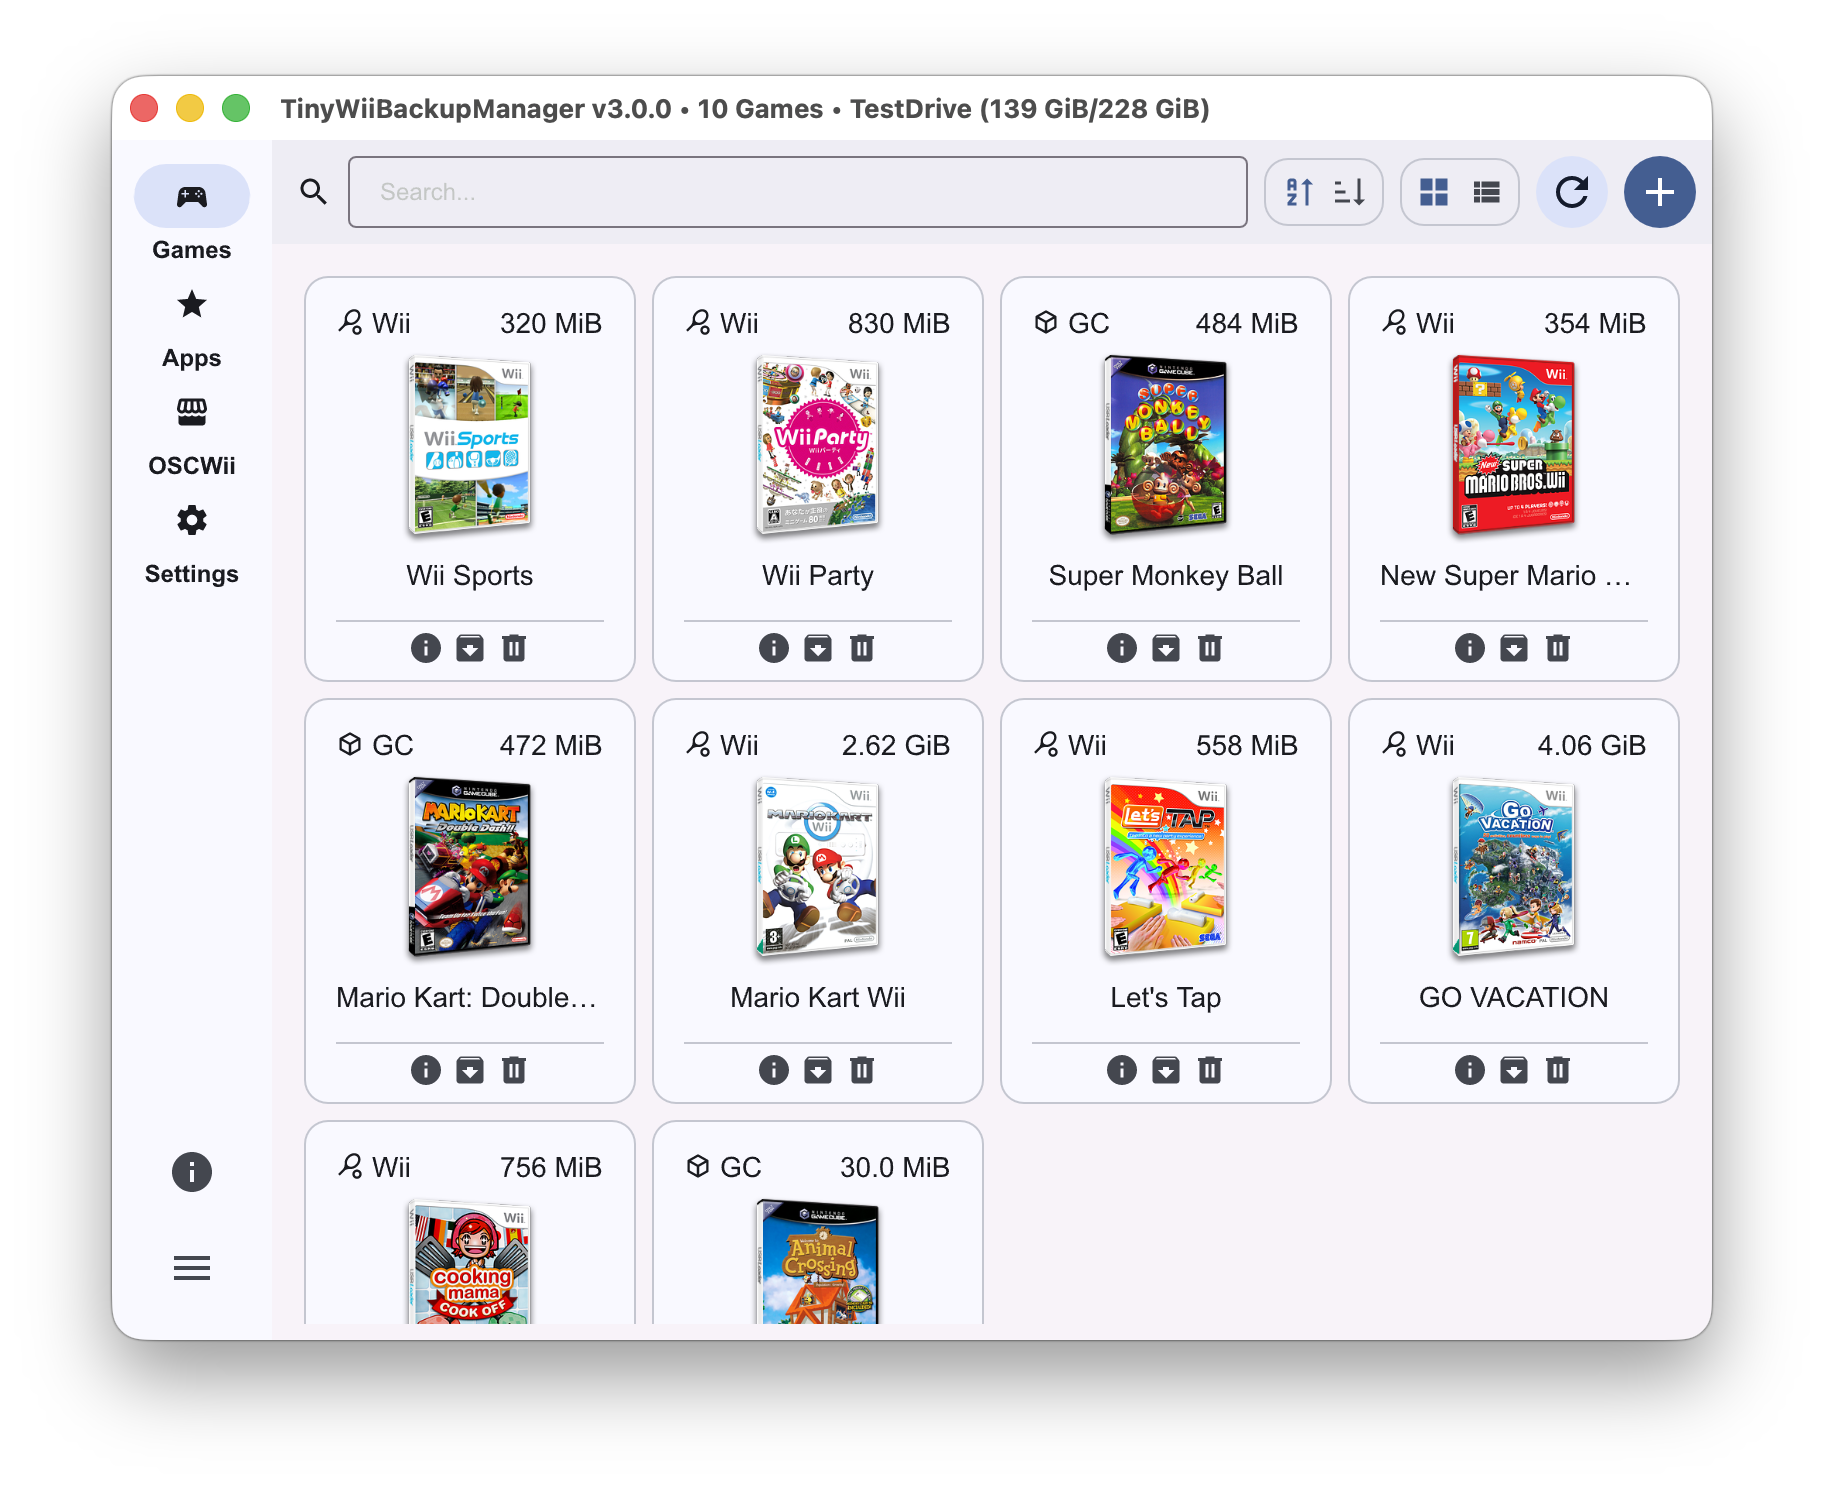
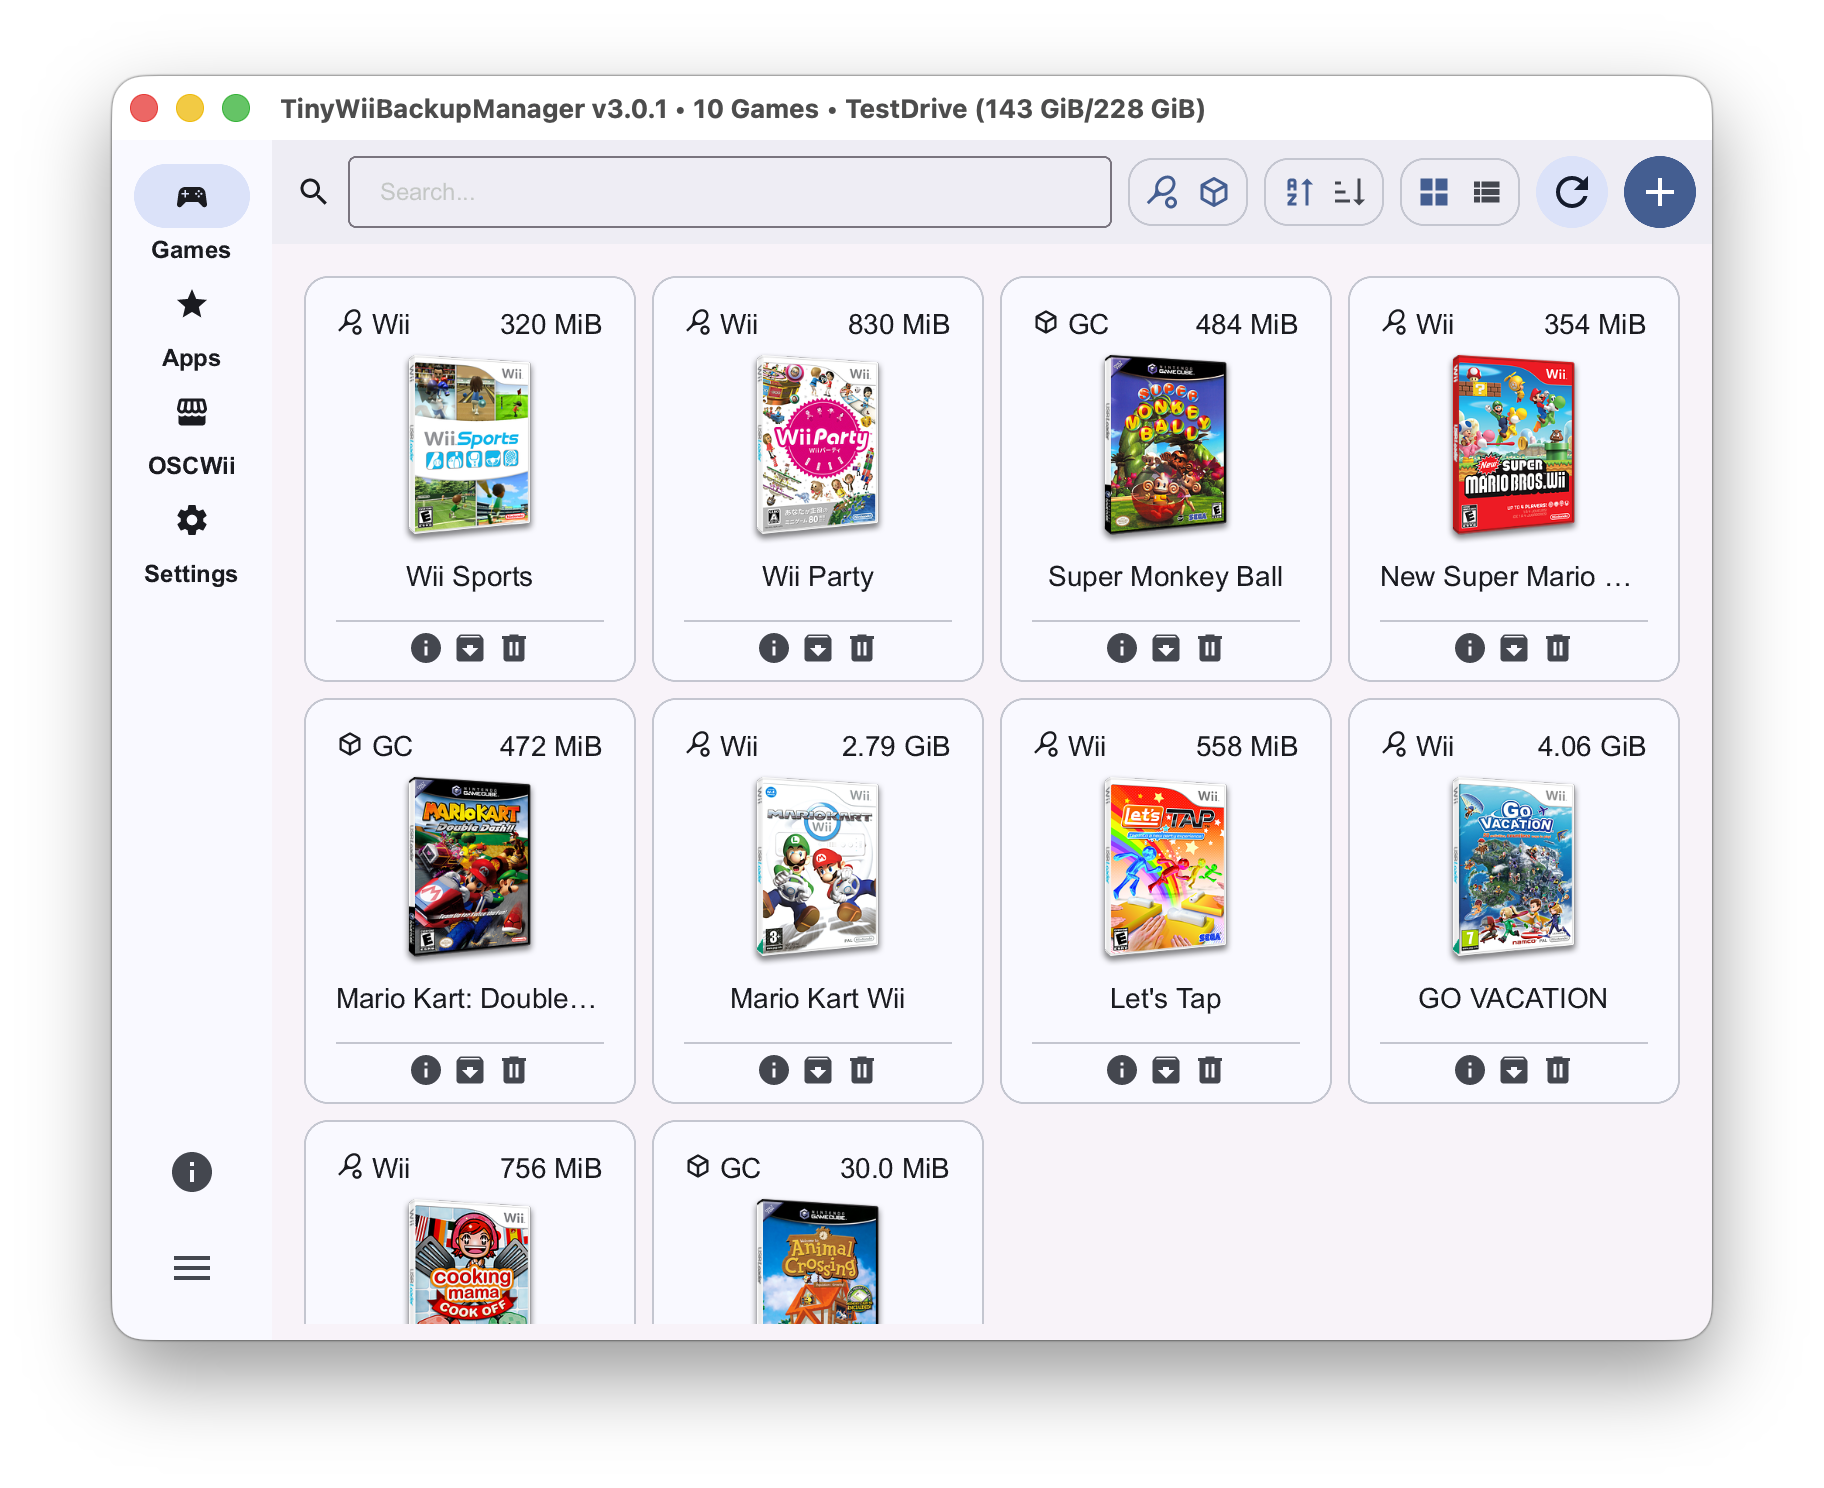
feat: Add filtering by console

diff --git a/src/main.rs b/src/main.rs
@@ -235,12 +235,21 @@ fn run() -> Result<()> {
         ModelRc::from(Rc::new(filtered))
     });
 
-    app.on_get_filtered_games(move |games, filter| {
-        if filter.is_empty() {
-            return games;
+    app.on_get_filtered_games(move |games, filter, show_wii, show_gc| {
+        if !show_wii && !show_gc {
+            return ModelRc::from(Rc::new(VecModel::from_slice(&[])));
         }
 
-        let filtered = games.filter(move |game| game.display_title_lower.contains(&*filter));
+        let filtered = games.filter(move |game| {
+            (show_wii && game.console == Console::Wii)
+                || (show_gc && game.console == Console::GameCube)
+        });
+
+        if filter.is_empty() {
+            return ModelRc::from(Rc::new(filtered));
+        }
+
+        let filtered = filtered.filter(move |game| game.display_title_lower.contains(&*filter));
 
         ModelRc::from(Rc::new(filtered))
     });
